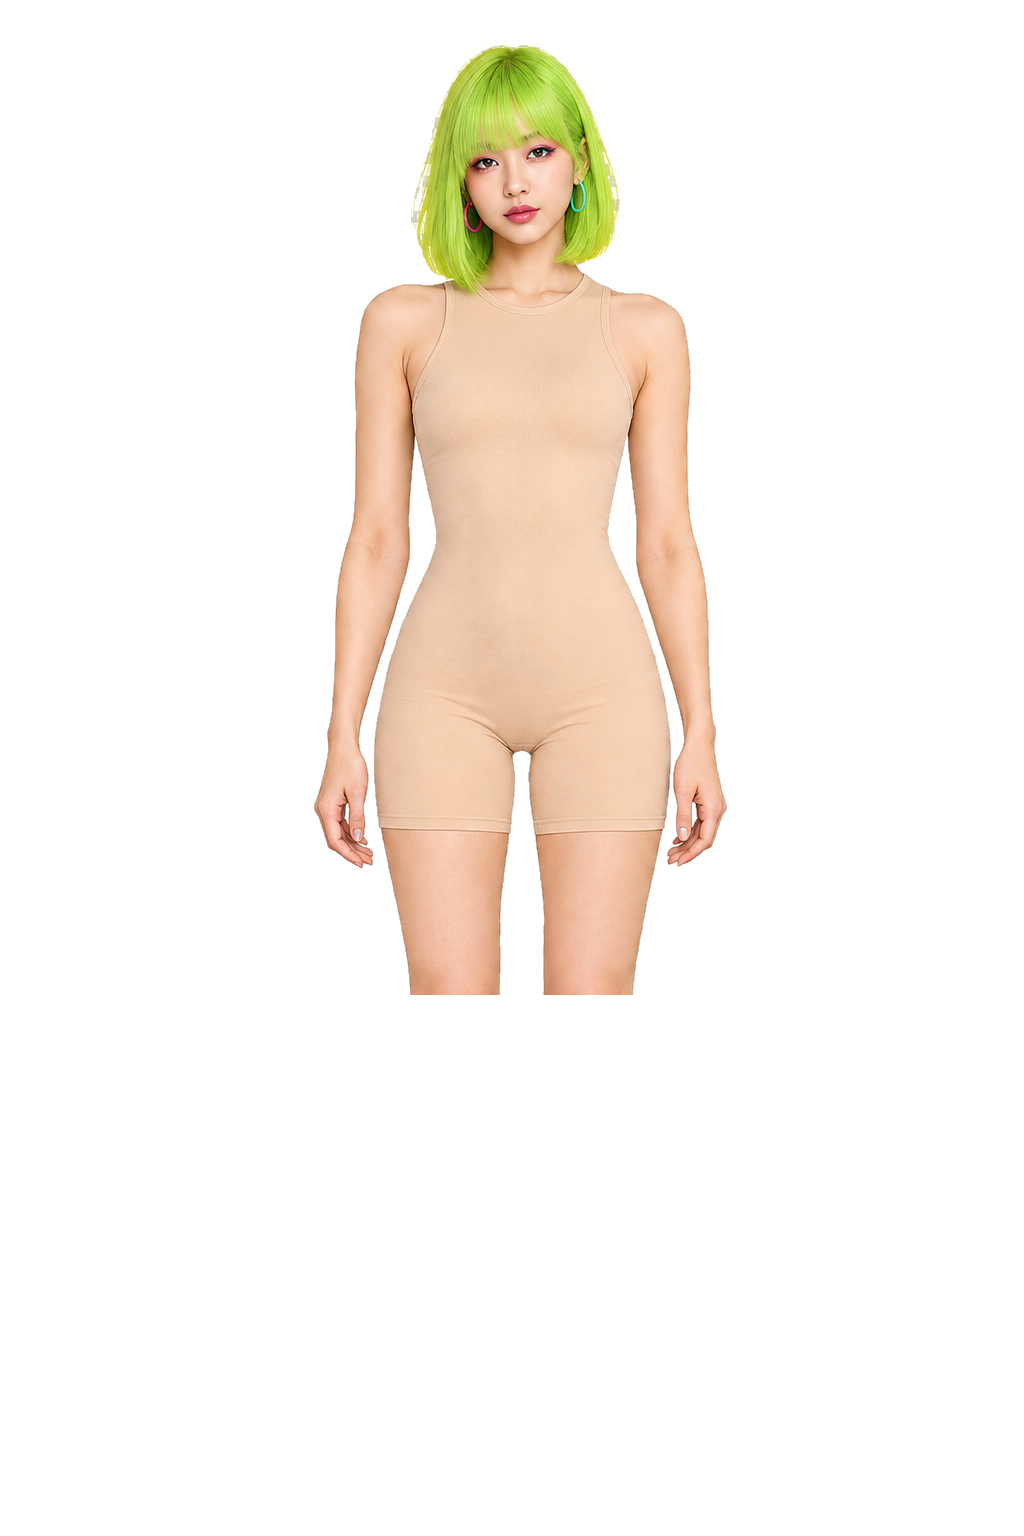
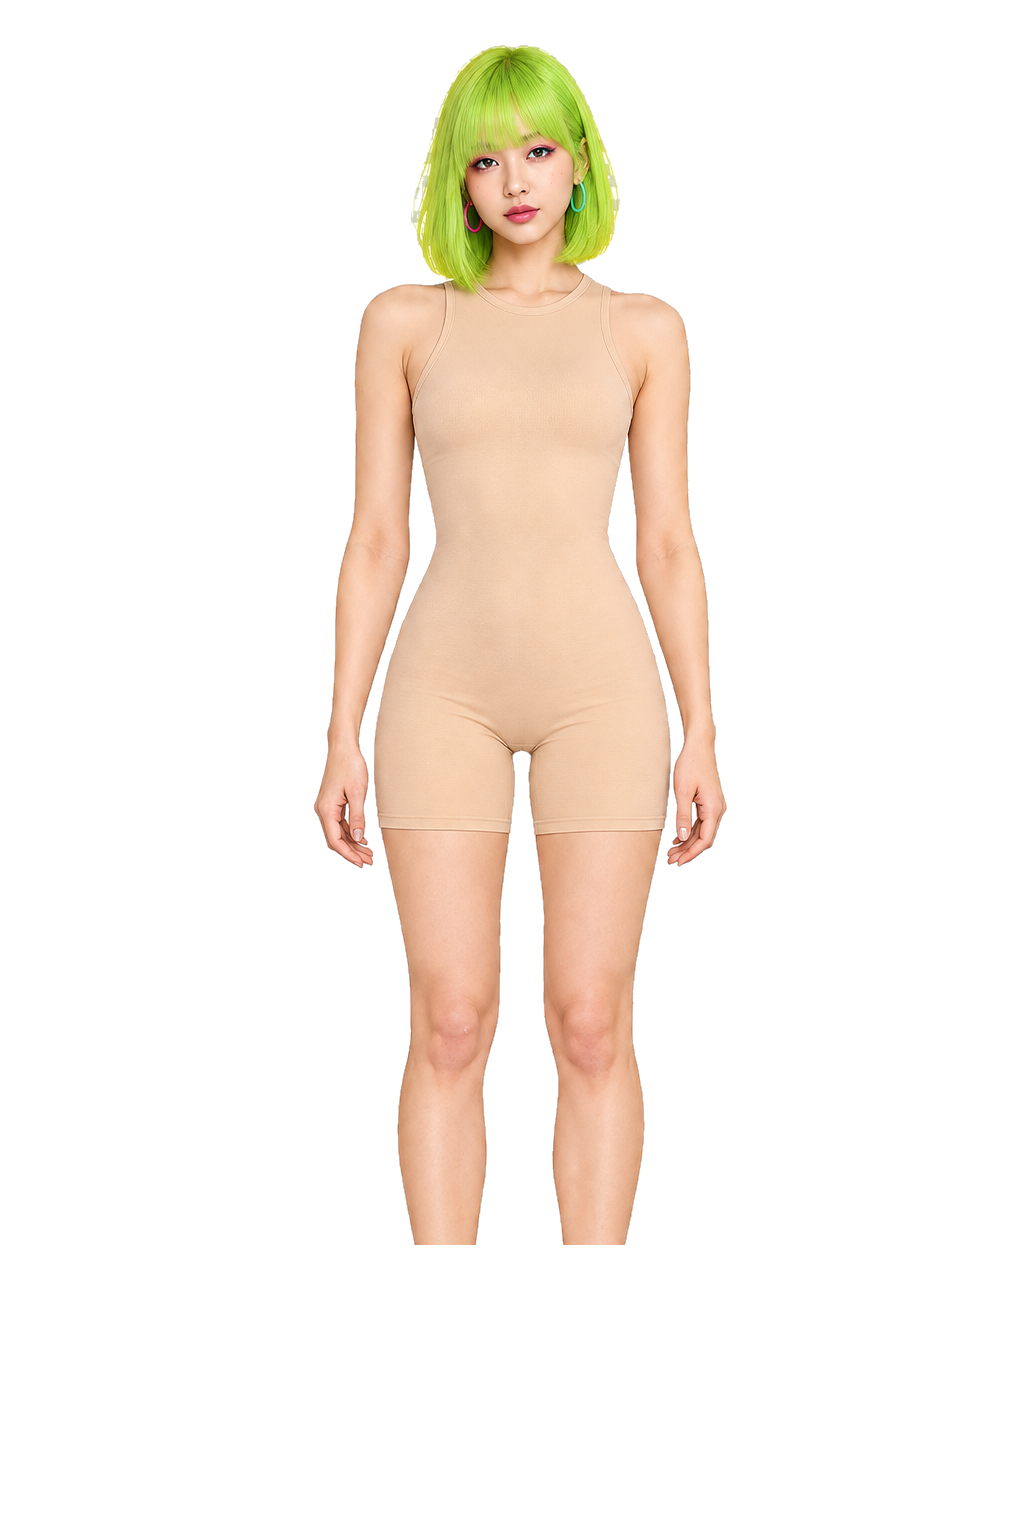
feat: integrate shoes-party-platform-boots into wardrobe, preload, and model layer

Changed region(s): [[0.375, 0.625, 0.5, 0.8125], [0.5312, 0.625, 0.6562, 0.8125]]

diff --git a/tests/play.spec.ts b/tests/play.spec.ts
@@ -56,6 +56,7 @@ const activeProductIds = [
   "bottom-sculpted-jeans",
   "bottom-denim-sculpted-skirt",
   "shoes-mary-janes",
+  "shoes-party-platform-boots",
 ] as const;
 
 const regeneratedProductIds = new Set([
@@ -129,6 +130,7 @@ test("kéo cột phải và hai cột quần váy chỉ mang sticker trong suố
     ["bottoms", "bottom-sculpted-jeans"],
     ["bottoms", "bottom-denim-sculpted-skirt"],
     ["shoes", "shoes-mary-janes"],
+    ["shoes", "shoes-party-platform-boots"],
   ] as const) {
     await selectCategory(page, category);
     const card = page.getByTestId(`garment-${id}`);
@@ -154,7 +156,7 @@ test("kéo cột phải và hai cột quần váy chỉ mang sticker trong suố
   }
 });
 
-test("PLAY tải model thẳng và duyệt đúng capsule (2 áo, 2 quần/váy, 1 giày)", async ({ page }) => {
+test("PLAY tải model thẳng và duyệt đúng capsule (2 áo, 2 quần/váy, 2 giày)", async ({ page }) => {
   const health = watchBrowserHealth(page);
   await page.goto("/play");
   await expectLoadedStage(page);
@@ -164,7 +166,7 @@ test("PLAY tải model thẳng và duyệt đúng capsule (2 áo, 2 quần/váy,
   const expectedCounts = {
     tops: 2,
     bottoms: 2,
-    shoes: 1,
+    shoes: 2,
   } as const;
 
   for (const [category, count] of Object.entries(expectedCounts)) {

diff --git a/src/components/dress-up-studio.tsx b/src/components/dress-up-studio.tsx
@@ -399,7 +399,7 @@ export function DressUpStudio() {
           >
             {/* Nude base model */}
             <img
-              src={assetUrl(selected.shoes === "shoes-brown-boots" ? "model-boots" : "model")}
+              src={assetUrl(selected.shoes === "shoes-party-platform-boots" || selected.shoes === "shoes-brown-boots" ? "model-boots" : "model")}
               className="studio-layer"
               alt="2D paper doll model standing upright with arms relaxed"
               draggable={false}
@@ -623,7 +623,7 @@ export function DressUpStudio() {
                 />
                 <div className="studio-stage" style={{ transform: "scale(0.92)", position: "relative", zIndex: 2 }}>
                   <img
-                    src={assetUrl(selected.shoes === "shoes-brown-boots" ? "model-boots" : "model")}
+                    src={assetUrl(selected.shoes === "shoes-party-platform-boots" || selected.shoes === "shoes-brown-boots" ? "model-boots" : "model")}
                     className="studio-layer"
                     alt=""
                     draggable={false}

diff --git a/src/lib/asset-preloader.ts b/src/lib/asset-preloader.ts
@@ -27,6 +27,7 @@ export const CORE_PRELOAD_IMAGES: string[] = [
   `${basePath}/game/studio/products/bottom-sculpted-jeans.png`,
   `${basePath}/game/studio/products/bottom-denim-sculpted-skirt.png`,
   `${basePath}/game/studio/products/shoes-mary-janes.png`,
+  `${basePath}/game/studio/products/shoes-party-platform-boots.png`,
 
   // Active runtime layers
   `${basePath}/game/studio/layers/top-fitted-denim.png`,
@@ -34,6 +35,7 @@ export const CORE_PRELOAD_IMAGES: string[] = [
   `${basePath}/game/studio/layers/bottom-sculpted-jeans.png`,
   `${basePath}/game/studio/layers/bottom-denim-sculpted-skirt.png`,
   `${basePath}/game/studio/layers/shoes-mary-janes.png`,
+  `${basePath}/game/studio/layers/shoes-party-platform-boots.png`,
 ];
 
 export const CORE_PRELOAD_AUDIO: string[] = [

diff --git a/src/lib/studio.ts b/src/lib/studio.ts
@@ -26,8 +26,9 @@ export const garments: Garment[] = [
   { id: "bottom-sculpted-jeans", name: "Sculpted Balloon Jeans", category: "bottoms", source: "generated-bottom-sculpted-jeans-v2" },
   { id: "bottom-denim-sculpted-skirt", name: "Sculpted Denim Maxi Skirt", category: "bottoms", source: "generated-bottom-denim-sculpted-skirt-v6" },
 
-  // One reviewed shoe remains available to complete and photograph a look.
+  // Reviewed shoes
   { id: "shoes-mary-janes", name: "Black Mary Janes", category: "shoes", source: "worn-shoes-mary-janes" },
+  { id: "shoes-party-platform-boots", name: "Party Platform Boots", category: "shoes", source: "generated-shoes-party-platform-boots-v1" },
 ];
 
 // Active catalog garments

diff --git a/src/lib/studio-look.ts b/src/lib/studio-look.ts
@@ -46,7 +46,7 @@ export async function renderLook({ selected, fits }: SavedStudio): Promise<HTMLC
   canvas.height = STAGE.height;
   const context = canvas.getContext("2d");
   if (!context) throw new Error("Canvas unavailable");
-  const boots = selected.shoes === "shoes-brown-boots";
+  const boots = selected.shoes === "shoes-party-platform-boots" || selected.shoes === "shoes-brown-boots";
   const order = (category: Category) => category === "shoes" && boots && bootTuckBottomIds.has(selected.bottoms || "") ? 35 : layerOrder[category];
   const layers = [
     { id: boots ? "model-boots" : "model", fit: initialFit, clip: false, order: 0, arms: false },

diff --git a/assets/studio/manual-extraction/production-v2-white/README.md b/assets/studio/manual-extraction/production-v2-white/README.md
@@ -1,0 +1,29 @@
+# Manual Extraction Handoff — Production v2 White
+
+This is the active full-model production set. Every asset is a lossless
+1024×1536 PNG on a clean white studio background. The model and garments have
+not been automatically segmented or connected to the game runtime.
+
+## Files
+
+1. `item/00-Party-Model-Base-White-Background.png`
+2. `item/01-Fitted-Denim-Top-White-Background.png`
+3. `item/02-Modal-Grommet-Top-White-Background.png`
+4. `item/03-Sculpted-Balloon-Jeans-White-Background.png`
+5. `item/04-Sculpted-Denim-Maxi-Skirt-White-Background.png`
+6. `item/05-Colorblock-Party-Platform-Boots-White-Background.png`
+
+The compact chin-length bob is intentionally kept as one connected silhouette
+close to the head, cheeks and neck, with no flyaway pieces. This makes manual
+background/model removal more reliable.
+
+## Manual cutout contract
+
+- Keep the original 1024×1536 canvas and model coordinates.
+- Delete only the model and white background by hand.
+- Preserve stitching, fold shadows, fine denim fibers, hardware, hems, hair
+  edges and antialiased garment edges.
+- Export lossless RGBA PNG with the original stem plus `-Manual-Cutout`.
+- Review at 100% and mobile zoom before moving a cutout into the game runtime.
+
+Exact built-in ImageGen prompts are stored in `prompts/`.

diff --git a/assets/studio/manual-extraction/production-v2-white/prompts/00-Party-Model-Base-White-Background.prompt.md b/assets/studio/manual-extraction/production-v2-white/prompts/00-Party-Model-Base-White-Background.prompt.md
@@ -1,0 +1,15 @@
+# Party Model Base — White Background
+
+Use case: identity-preserve
+
+Re-render the supplied adult Asian woman as an ultra-sharp photorealistic
+full-body studio image. Replace the backdrop with uniform white. Preserve her
+face, body, neutral front pose, beige sleeveless short unitard, white cap with
+large green button, turquoise flower glasses, gradient cyan-pink lips, hoop
+earrings and colorful charm bracelets. Redesign only the hair silhouette as a
+compact chin-length neon lime, hot-pink, orange and cyan bob. It must hug the
+head, cheeks and neck, remain one connected mass, and keep a smooth asymmetric
+fringe partly covering one eye. Keep natural matte skin with pores and subtle
+imperfections. Entire cap, hands and feet must be visible. No flyaways,
+separated strands, checkerboard, floor, horizon, shadow, halo, outline, blur,
+text, watermark or crop.

diff --git a/assets/studio/manual-extraction/production-v2-white/prompts/05-Colorblock-Party-Platform-Boots-White-Background.prompt.md b/assets/studio/manual-extraction/production-v2-white/prompts/05-Colorblock-Party-Platform-Boots-White-Background.prompt.md
@@ -1,0 +1,13 @@
+# Colorblock Party Platform Boots — White Background
+
+Use case: identity-preserve
+
+Use the new white-background model as the definitive identity, compact-hair,
+accessory, pose and framing anchor. Replace only her bare feet with the supplied
+matched ankle boots, fully enclosing both feet: coral-pink leather shafts,
+turquoise rounded toes, turquoise buckled straps and side zipper hardware, with
+thick yellow, lime-green and sky-blue layered soles. Render real leather grain,
+natural ankle creasing, stitching and plausible construction. Both soles sit
+flat and remain fully visible. Preserve every other detail and the uniform white
+backdrop. No old footwear, visible toes, flyaways, checkerboard, halo, blur,
+text, watermark or crop.

diff --git a/assets/studio/manual-extraction/production-v2-white/prompts/04-Sculpted-Denim-Maxi-Skirt-White-Background.prompt.md b/assets/studio/manual-extraction/production-v2-white/prompts/04-Sculpted-Denim-Maxi-Skirt-White-Background.prompt.md
@@ -1,0 +1,13 @@
+# Sculpted Denim Maxi Skirt — White Background
+
+Use case: identity-preserve
+
+Use the new white-background model as the definitive identity, compact-hair,
+accessory, pose and framing anchor. Put only the supplied high-waisted,
+ankle-length A-line dark-indigo denim maxi skirt on her. Include a real
+waistband, button, fly and pockets. Large curved fabric panels must be joined by
+continuous tan double topstitch seams. Render visible diagonal denim weave,
+subtle indigo variation, believable weight, natural gravity and darker
+occlusion inside folds and stitched joins. Use a realistic sewn hem and avoid
+inflated geometry. Keep the feet bare and backdrop uniform white. No flyaways,
+checkerboard, halo, blur, text, watermark or crop.

diff --git a/assets/studio/manual-extraction/production-v2-white/prompts/03-Sculpted-Balloon-Jeans-White-Background.prompt.md b/assets/studio/manual-extraction/production-v2-white/prompts/03-Sculpted-Balloon-Jeans-White-Background.prompt.md
@@ -1,0 +1,13 @@
+# Sculpted Balloon Jeans — White Background
+
+Use case: identity-preserve
+
+Use the new white-background model as the definitive identity, compact-hair,
+accessory, pose and framing anchor. Put only the supplied high-waisted,
+dark-indigo sculpted balloon jeans on her. Render very wide legs from heavy
+cotton denim twill with a real waistband, loops, button, fly and pockets.
+Curved panels must be physically joined by continuous tan double topstitching,
+with subtle indigo grain, natural fold depth and dark occlusion at sewn joins.
+Every curved line must read as a seam, not a print. Keep the feet bare and the
+backdrop uniform white. No flyaways, checkerboard, halo, blur, text, watermark
+or crop.

diff --git a/assets/studio/manual-extraction/production-v2-white/prompts/01-Fitted-Denim-Top-White-Background.prompt.md b/assets/studio/manual-extraction/production-v2-white/prompts/01-Fitted-Denim-Top-White-Background.prompt.md
@@ -1,0 +1,11 @@
+# Fitted Denim Top — White Background
+
+Use case: identity-preserve
+
+Use the new white-background model as the definitive identity, compact-hair,
+accessory, pose and framing anchor. Put only the supplied fitted dark-indigo
+sleeveless denim top on her: high stand collar, metal button, centered zipper,
+curved tan topstitching and subtle raw hem. Render real heavy cotton denim
+twill, believable seams and shallow torso folds. Fit armholes precisely with no
+stray shoulder fragments. Preserve every other detail and keep the backdrop
+uniform white. No flyaways, checkerboard, halo, blur, text, watermark or crop.

diff --git a/assets/studio/manual-extraction/production-v2-white/prompts/02-Modal-Grommet-Top-White-Background.prompt.md b/assets/studio/manual-extraction/production-v2-white/prompts/02-Modal-Grommet-Top-White-Background.prompt.md
@@ -1,0 +1,11 @@
+# Modal Grommet Top — White Background
+
+Use case: identity-preserve
+
+Use the new white-background model as the definitive identity, compact-hair,
+accessory, pose and framing anchor. Put only the supplied chartreuse sleeveless
+modal V-neck top on her. Keep the asymmetric gathered drape pulled through a
+dark ring at the left waist, curved black piping and two small grommets. Render
+soft matte modal knit with fine grain and natural tension folds. Fit armholes
+precisely. Preserve every other detail and keep the backdrop uniform white. No
+flyaways, checkerboard, halo, blur, text, watermark or crop.
